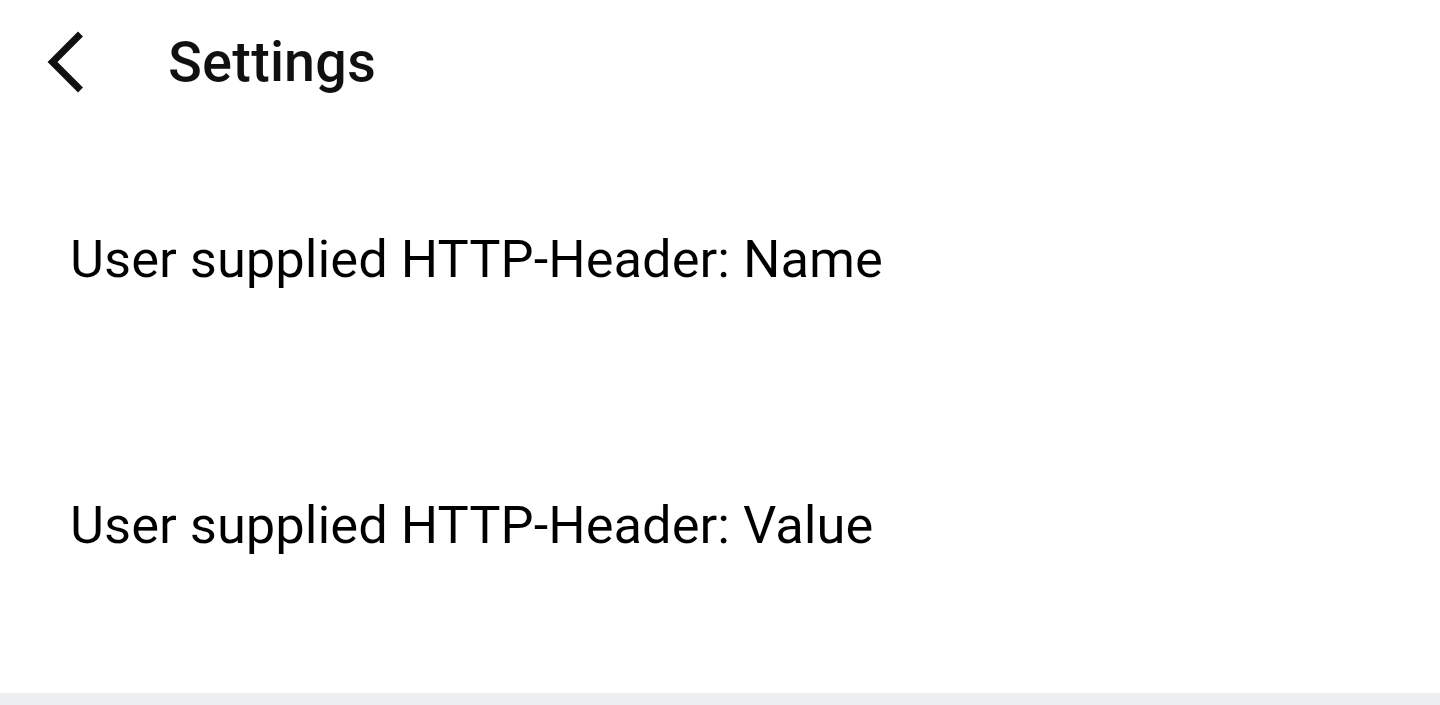
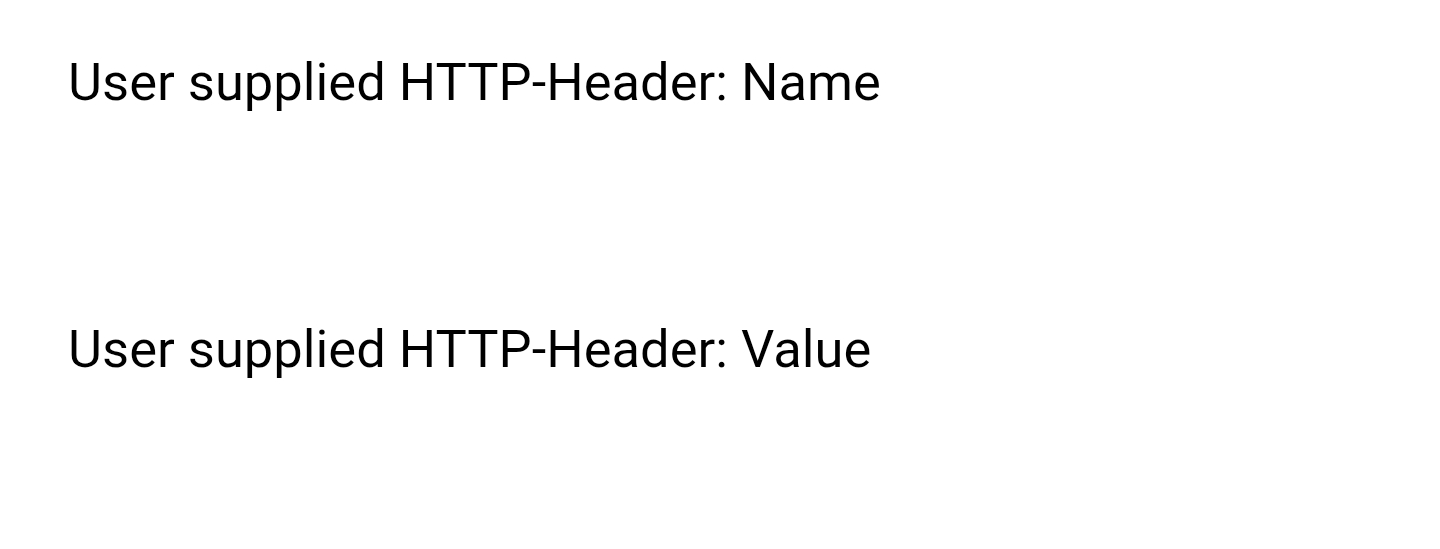
Amended documentation
No longer using groups for sub-menus.

diff --git a/HTTP_Headers.md b/HTTP_Headers.md
@@ -8,13 +8,11 @@ Please let us know if this solution is found to be useful for other situations.
 
 ## Setup
 
-The main settings includes a sub-menu for the user supplied HTTP header.
-
-<img src="images/http_header_submenu_item.png" width="400" title="Application Settings"/>
-
-The sub-menu contains two options for users to specify both the HTTP header name and the value as two free form strings.
+The settings contain two options for users to specify both the HTTP header name and the value as two free form strings.
 
 <img src="images/http_header_settings.png" width="400" title="Application Settings"/>
+
+If you don't know why you need these, leave them empty and ignore.
 
 ## Support
 
